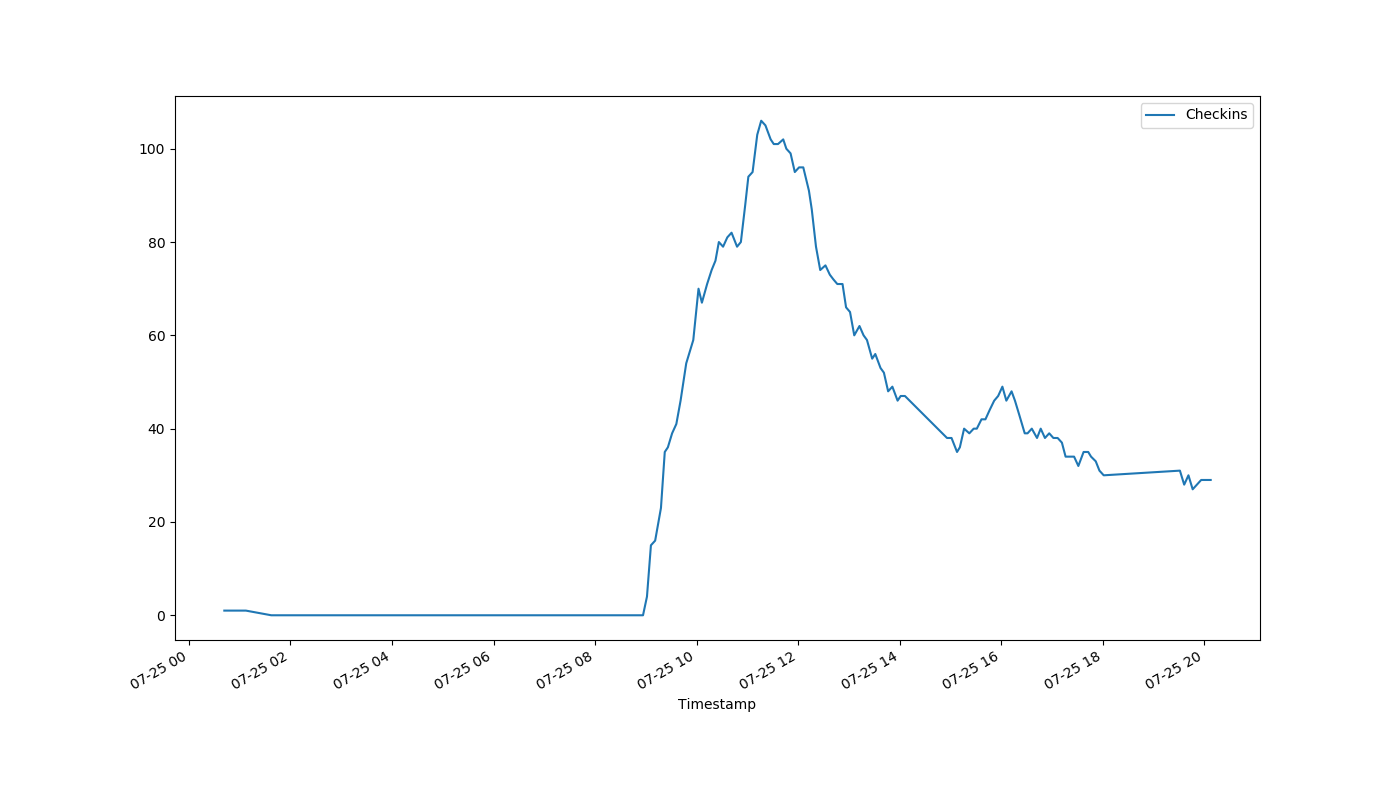
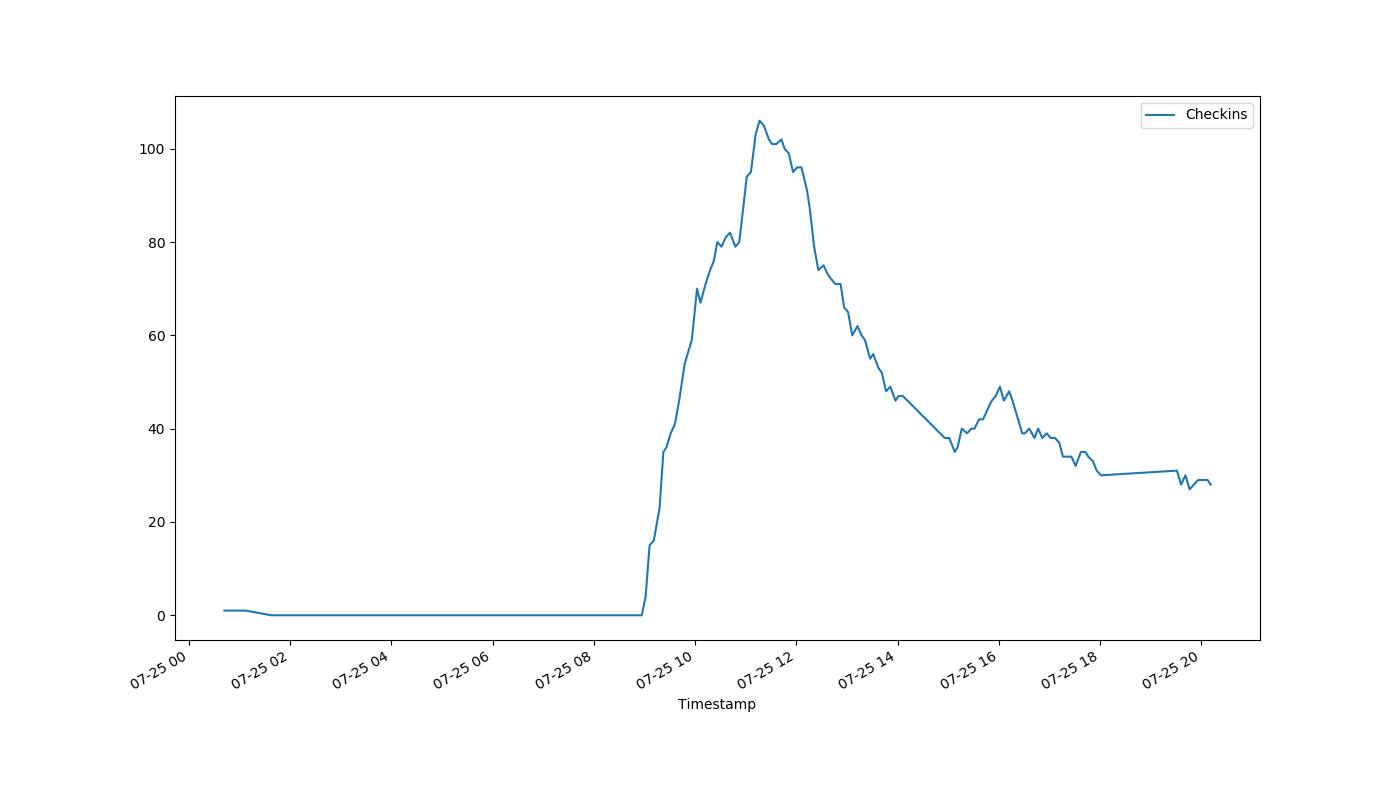
auto-Jul-25-20:13:28

diff --git a/index.html b/index.html
@@ -1,1 +1,1 @@
-<!DOCTYPE html><html><head><meta http-equiv="refresh" content="30"><link rel='stylesheet' href='holmcurrent.css'></head><body><p id='count'>29</p><div id='graph-wrap'><img id='graph' src='holmgraph-Jul-25.png'></div><p id='updated'>Last updated 20:08:06 / 20:07:28</p></body></html>
+<!DOCTYPE html><html><head><meta http-equiv="refresh" content="30"><link rel='stylesheet' href='holmcurrent.css'></head><body><p id='count'>28</p><div id='graph-wrap'><img id='graph' src='holmgraph-Jul-25.png'></div><p id='updated'>Last updated 20:12:06 / 20:11:08</p></body></html>
